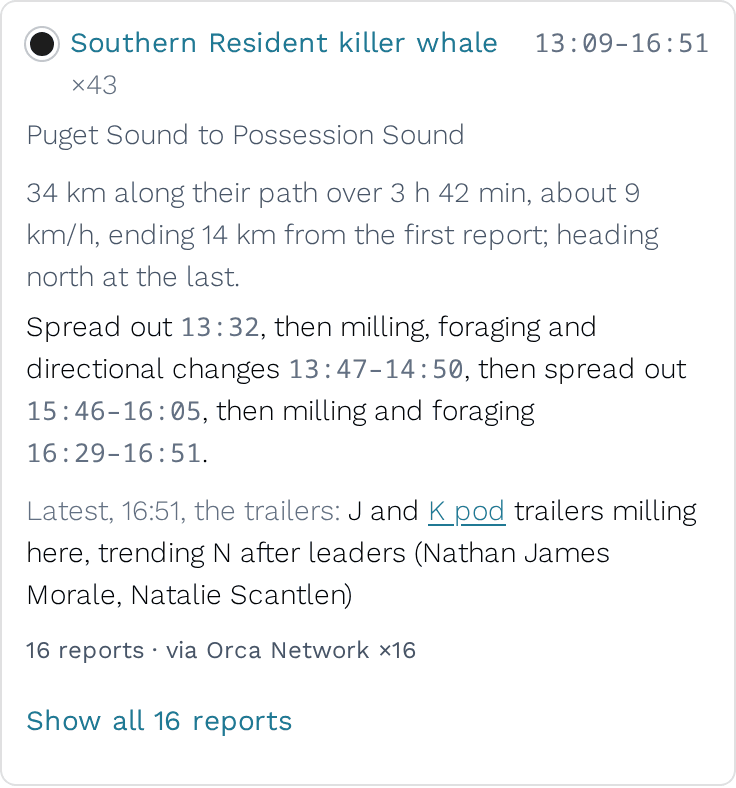
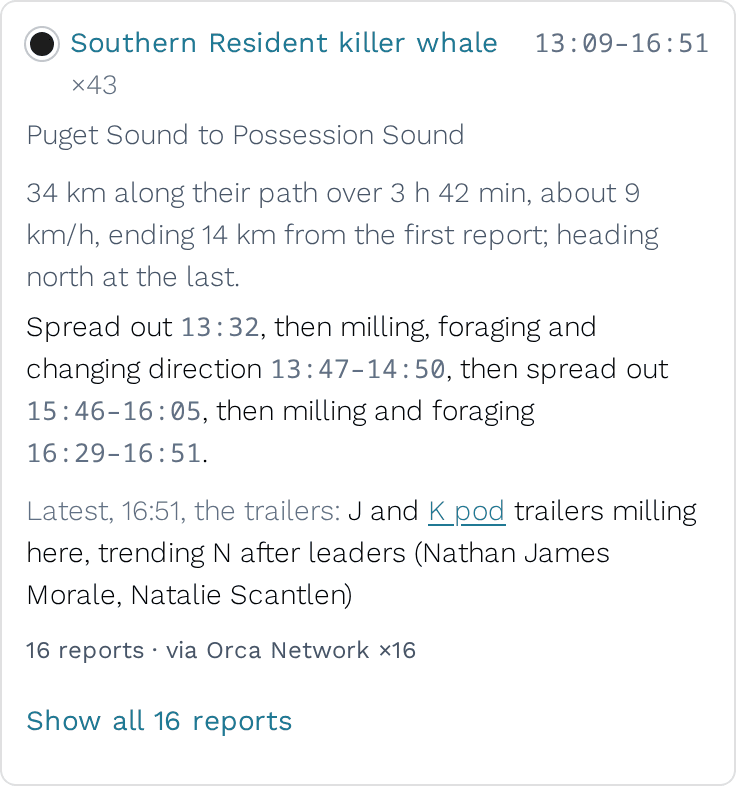
A behaviour line says each tag in a form a sentence can hold: "moving quickly", "changing direction" (salish-2ua9)
Peter, 2026-11-12, on "then quickly and spread out": "quickly is not a verb".
The tags are the reporters' words in whatever part of speech they used, so a
list of them could be ungrammatical. Ten phrases now carry how a sentence
says them (quickly, fast, slowly, kill, directional changes, back and forth,
zigzag, together, long down times, long dives); the tag stays the reporters'
word. Decision 116's example and the screenshots are updated.

Changed region(s): [[0.0312, 0.4569, 0.9375, 0.4873]]

diff --git a/src/behaviour.ts b/src/behaviour.ts
@@ -11,8 +11,13 @@
  * humpback can be called Zig Zag.
  */
 
-/** A tag and the phrases that say it, matched against the report's text. */
-export type Phrase = {tag: string, pattern: RegExp};
+/**
+ * A tag and the phrases that say it, matched against the report's text. `inSentence` is
+ * how a sentence that lists tags says it, when the reporters' word doesn't fit one: a card
+ * writes "then moving quickly and spread out", not "then quickly and spread out". The tag
+ * stays the reporters' word.
+ */
+export type Phrase = {tag: string, pattern: RegExp, inSentence?: string};
 
 export const PHRASES: readonly Phrase[] = [
     {tag: 'milling', pattern: /\bmill(?:ing|ed|s)?\b/i},
@@ -28,28 +33,28 @@ export const PHRASES: readonly Phrase[] = [
     {tag: 'feeding', pattern: /\bfe(?:ed|eds|eding|d)\b/i},
     {tag: 'hunting', pattern: /\bhunt(?:ing|ed|s)?\b/i},
     {tag: 'eating', pattern: /\beat(?:ing|s)?\b/i},
-    {tag: 'kill', pattern: /\bkill\b/i},
+    {tag: 'kill', pattern: /\bkill\b/i, inSentence: 'on a kill'},
     {tag: 'attacking', pattern: /\battack(?:ing|ed|s)?\b/i},
     {tag: 'chasing', pattern: /\bchas(?:e|ing|ed)\b/i},
-    {tag: 'quickly', pattern: /\bquick(?:ly)?\b/i},
-    {tag: 'fast', pattern: /\bfast\b(?! ferry)/i},
+    {tag: 'quickly', pattern: /\bquick(?:ly)?\b/i, inSentence: 'moving quickly'},
+    {tag: 'fast', pattern: /\bfast\b(?! ferry)/i, inSentence: 'moving fast'},
     {tag: 'porpoising', pattern: /\bporpoising\b/i},
-    {tag: 'slowly', pattern: /\bslow(?:ly|ed|ing)?\b/i},
+    {tag: 'slowly', pattern: /\bslow(?:ly|ed|ing)?\b/i, inSentence: 'moving slowly'},
     {tag: 'meandering', pattern: /\bmeander(?:ing|ed|s)?\b/i},
-    {tag: 'directional changes', pattern: /\bdirection(?:al)? changes?\b|\bchang(?:e|ed|ing|es) (?:of )?direction\b/i},
+    {tag: 'directional changes', pattern: /\bdirection(?:al)? changes?\b|\bchang(?:e|ed|ing|es) (?:of )?direction\b/i, inSentence: 'changing direction'},
     {tag: 'flipped', pattern: /\bflip(?:ped|ping)?\b/i},
     {tag: 'turned around', pattern: /\bturn(?:ed|ing)? (?:around|back)\b/i},
-    {tag: 'back and forth', pattern: /\bback and forth\b/i},
+    {tag: 'back and forth', pattern: /\bback and forth\b/i, inSentence: 'going back and forth'},
     // Lower case only, even starting a sentence: Zig Zag (BCX1193) and Zigzag are humpbacks.
-    {tag: 'zigzag', pattern: /\bzig[- ]?zag(?:ging)?\b/},
+    {tag: 'zigzag', pattern: /\bzig[- ]?zag(?:ging)?\b/, inSentence: 'zigzagging'},
     {tag: 'spread out', pattern: /\bspread\b/i},
     {tag: 'in groups', pattern: /\b(?:two|2|three|3|several|multiple|few|many) (?:sub-?)?groups\b/i},
     {tag: 'split up', pattern: /\bsplit (?:up|into)\b/i},
     // "Loosely grouped" is neither tight nor spread, and is left out.
     {tag: 'grouped up', pattern: /\bgroup(?:ed|ing) ?up\b|(?<!loosely )\bgrouped\b/i},
-    {tag: 'together', pattern: /\b(?:travel(?:l)?ing|close|all|swimming|tight(?:ly)?) together\b/i},
-    {tag: 'long down times', pattern: /\blong ?down ?times?\b/i},
-    {tag: 'long dives', pattern: /\b(?:long|deep) dives?\b/i},
+    {tag: 'together', pattern: /\b(?:travel(?:l)?ing|close|all|swimming|tight(?:ly)?) together\b/i, inSentence: 'keeping together'},
+    {tag: 'long down times', pattern: /\blong ?down ?times?\b/i, inSentence: 'with long down times'},
+    {tag: 'long dives', pattern: /\b(?:long|deep) dives?\b/i, inSentence: 'making long dives'},
     {tag: 'sounded', pattern: /\bsound(?:ed|ing)\b(?! like)/i},
     // Lower case only, even starting a sentence: Fluke and Split Fluke are names.
     {tag: 'fluking', pattern: /\bfluk(?:ed|ing)\b|\bfluke[sd]? up\b/},
@@ -113,6 +118,11 @@ export function readBehaviour(text: string): string[] {
             if (!tags.includes(tag)) tags.push(tag);
     }
     return tags;
+}
+
+/** How a sentence says a tag: "moving quickly" for quickly, the tag itself for most. */
+export function inSentence(tag: string): string {
+    return PHRASES.find(p => p.tag === tag)?.inSentence ?? tag;
 }
 
 /** Which part of a spread group a report's position is. */

diff --git a/src/segment-summary.ts b/src/segment-summary.ts
@@ -14,6 +14,7 @@ import { openAnimalLinkInSidebar } from './subject.ts';
 import './obs-summary.ts';
 import { placeSpan } from './place.ts';
 import { observedClock } from './constants.ts';
+import { inSentence } from './behaviour.ts';
 
 /** A segment becomes one card from this many reports up; fewer stay cards of their own (Peter, 2026-10-28). */
 export const SEGMENT_CARD_MIN = 3;
@@ -284,7 +285,7 @@ export class SegmentSummary extends LitElement {
       })}</ul>` : nothing}
       <p class="movement">${movementLine(segmentMovement(reports))}</p>
       ${spells.length ? html`<p class="behaviour">${spells.map(({tags, from, to}, i) => html`${
-        i ? ', then ' : ''}${i ? listed(tags) : capitalised(listed(tags))} <time>${clock(from)}${to === from ? '' : `–${clock(to)}`}</time>`)}.</p>` : nothing}
+        i ? ', then ' : ''}${i ? listed(tags.map(inSentence)) : capitalised(listed(tags.map(inSentence)))} <time>${clock(from)}${to === from ? '' : `–${clock(to)}`}</time>`)}.</p>` : nothing}
       ${latest ? html`<p class="latest"><span class="label">Latest, ${clock(latest)}${latest.group_part ? `, the ${latest.group_part}` : ''}:</span>
         <span class="text">${sightingText(latest.body, latest.provider_slug)}</span></p>` : nothing}
       ${photos.length ? html`<ul class="photos">${repeat(photos.slice(0, 4), ({photo}) => photo.src, ({photo, sighting}) => html`
@@ -344,7 +345,7 @@ export function behaviourSpells(reports: readonly Occurrence[]): BehaviourSpell[
   return spells;
 }
 
-/** "milling, foraging and directional changes" */
+/** "milling, foraging and changing direction" */
 const listed = (words: readonly string[]) =>
   words.length < 2 ? words.join('') : `${words.slice(0, -1).join(', ')} and ${words.at(-1)}`;
 const capitalised = (s: string) => s.charAt(0).toUpperCase() + s.slice(1);

diff --git a/src/behaviour.test.ts b/src/behaviour.test.ts
@@ -5,7 +5,7 @@
  */
 import { describe, expect, test } from 'vitest';
 import { loadGold } from '../scripts/gold/gold.ts';
-import { PHRASES, readBehaviour, readGroupPart } from './behaviour.ts';
+import { inSentence, PHRASES, readBehaviour, readGroupPart } from './behaviour.ts';
 
 describe('readBehaviour', () => {
     test('reads the reporters\' own words, normalised only for form', () => {
@@ -76,6 +76,13 @@ describe('readBehaviour', () => {
     test('tail slapping, however it is put', () => {
         for (const text of ['tail slaps', 'slapping their tails', 'slapping its tail', 'slapping their tales in the water'])
             expect(readBehaviour(text), text).toEqual(['tail slapping']);
+    });
+
+    test('a sentence says a tag in a form that fits it, the tag itself where it already does', () => {
+        expect(inSentence('quickly')).toBe('moving quickly');
+        expect(inSentence('directional changes')).toBe('changing direction');
+        expect(inSentence('milling')).toBe('milling');
+        expect(inSentence('flipped')).toBe('flipped');
     });
 
     test('every tag is a phrase\'s, so the list is the vocabulary', () => {

diff --git a/src/segment-summary.test.ts b/src/segment-summary.test.ts
@@ -102,9 +102,11 @@ describe('what the reports say the animals were doing (decision 116)', () => {
       said(report('a', 0, 'spread out'), ['spread out']),
       said(report('b', 30, 'milling'), ['milling']),
       said(report('c', 60, 'milling, foraging'), ['milling', 'foraging']),
+      said(report('d', 90, 'quickly northbound, spread'), ['quickly', 'spread out']),
     ]);
+    // each tag in a form a sentence can hold: "quickly" is "moving quickly" (Peter, 2026-11-12)
     expect(card.shadowRoot!.querySelector('p.behaviour')!.textContent!.replace(/\s+/g, ' ').trim())
-      .toBe('Spread out 12:00, then milling and foraging 12:30–13:00.');
+      .toBe('Spread out 12:00, then milling and foraging 12:30–13:00, then moving quickly and spread out 13:30.');
     card.sightings = [report('a', 0, 'Orcas'), report('b', 30, 'Orcas')];
     await card.updateComplete;
     expect(card.shadowRoot!.querySelector('p.behaviour')).toBeNull();

diff --git a/docs/decisions/116-a-sightings-text-gives-its-behaviour-in-the-reporters-words-and-which-part-of-the-group-it-saw.md b/docs/decisions/116-a-sightings-text-gives-its-behaviour-in-the-reporters-words-and-which-part-of-the-group-it-saw.md
@@ -24,7 +24,7 @@ The same reports showed a second thing. A spread group is reported from whicheve
 
 **When the text says which part of a spread group the reported position is, the reader answers it, and the build writes it into the report as `group_part`: `leaders`, `trailers`, or null for not said.** It is a property of the position, not a behaviour. It counts only when the text puts that part *here*: *leaders here*, *trailing group here*, *trailing male milling/foraging here*. The card says it with the position. A forecast grows from the latest leaders' report rather than the latest report of any kind, and a speed or heading is measured between reports of the same part.
 
-**A segment's card says what its reports say the animals were doing, in the order they said it** (*amended 2026-11-12*, Peter: "I'd rather these were ordered chronologically than by frequency"). A report joins the run before it when it shares a tag with the report just before it, so a change shows even when an older report in the run said the same; each run has its times: *Spread out 13:32, then milling, foraging and directional changes 13:47–14:50, then spread out 15:46–16:05, then milling and foraging 16:29–16:51.* For a forecast, what they were doing last matters more than what they did most. Tags about what they did at the surface (*surface active*, *breaching*) are left out of the line, which is about movement. The card's *Latest* label says when the newest report is the leaders' or the trailers' (*Latest, 16:51, the trailers:*), and a single report's card says it after its place (*Possession Sound, off Mukilteo · the leaders*). A single report's card shows no tags, since its own words are on it. The options mocked up from 2026-11-09 were a line by frequency, chips like the animals' with *6 of 16*, and this one.
+**A segment's card says what its reports say the animals were doing, in the order they said it** (*amended 2026-11-12*, Peter: "I'd rather these were ordered chronologically than by frequency"). A report joins the run before it when it shares a tag with the report just before it, so a change shows even when an older report in the run said the same; each run has its times: *Spread out 13:32, then milling, foraging and changing direction 13:47–14:50, then spread out 15:46–16:05, then milling and foraging 16:29–16:51.* A tag whose word doesn't fit a sentence is written in a form that does, and stays the reporters' word: *quickly* is *moving quickly*, *directional changes* is *changing direction* (Peter: "quickly is not a verb"). For a forecast, what they were doing last matters more than what they did most. Tags about what they did at the surface (*surface active*, *breaching*) are left out of the line, which is about movement. The card's *Latest* label says when the newest report is the leaders' or the trailers' (*Latest, 16:51, the trailers:*), and a single report's card says it after its place (*Possession Sound, off Mukilteo · the leaders*). A single report's card shows no tags, since its own words are on it. The options mocked up from 2026-11-09 were a line by frequency, chips like the animals' with *6 of 16*, and this one.
 
 ## Not decided
 
